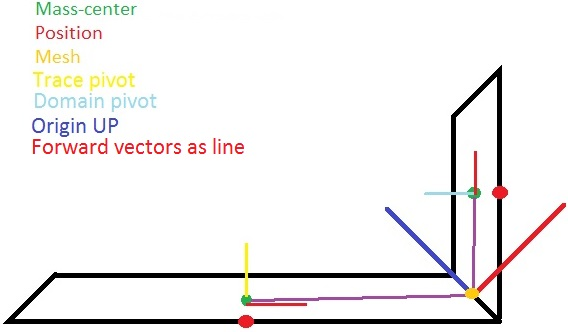
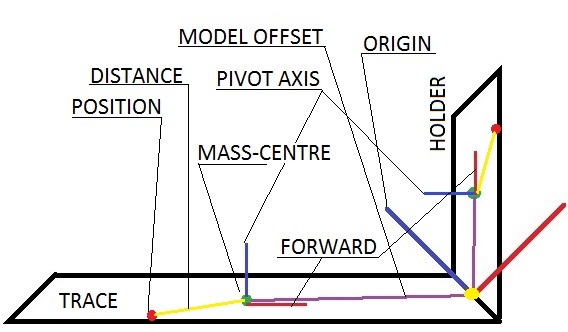
Updated: Internal mass-center snapping structure and algorithm Updated: readme.md and adviser drawing diagram Updated: Initialization CLIENT if-def for translation

diff --git a/readme.md b/readme.md
@@ -75,12 +75,15 @@ A: Ah, this happens when the gear piece has even set of teeth. Adjust the trace 
    the trace gear. Take this number (For example 7.25) and divide it by two (3.625). Now use this
    same value (3.625) for both trace pivot rotation and piece ( holder pivot ) rotation.
 
-Q: I have a hard time reading the lines and circles of the adviser. What do these represent?
-A: All red lines are forward direction vectors of all the angles processed. The green circles
-   are trace and domain centers and yellow and cyan lines are their trace and holder pivot respectively.
+Q: I have a hard time reading the lines and circles of the adviser. What do these visuals represent?
+A: All the red lines are forward direction and the blues are the up direction vectors of all the
+   angle orientations processed. The trace and the holder blue lines are the trace and holder pivot
+   axises respectively. The green circles are the trace and domain mass-centers as position vectors.
    The green line is the origin right vector and the blue line the up vector. The yellow circle is the
-   point where the gears mesh. The gear position is not displayed on the screen, as the mass center is
-   used for all internal position calculations and it is proper origin to relate the offset on.
+   point where the gears mesh. The gear position is displayed on the screen in red. The mass-center is
+   used for all internal position calculations and it is proper origin to relate the offset on. The
+   world space distances between the mass-centers and positions are displayed with yellow line.
+   The magenta lines represent the distance vectors between holder and trace to the mesh origin.
    If you are still confused about this, please take a look at the diagram below:
 ```
 ![GearAssemblyCoordinates](https://raw.githubusercontent.com/dvdvideo1234/GearAssemblyTool/LuaDB/data/pictures/coordinates.jpg)
